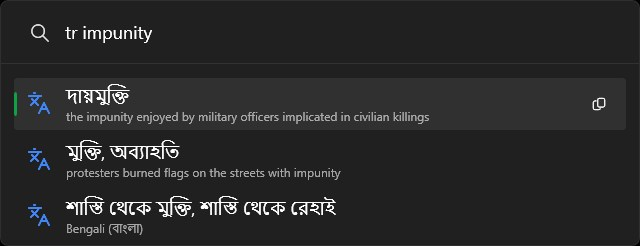
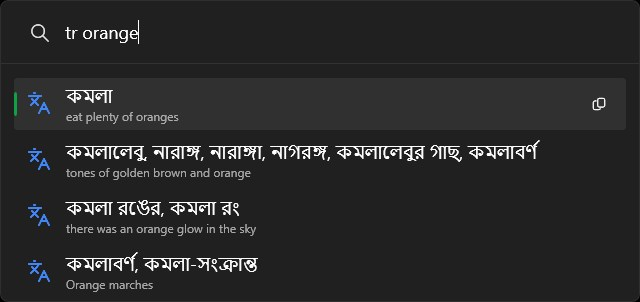
updated

diff --git a/Services/QueryParser.cs b/Services/QueryParser.cs
@@ -50,8 +50,8 @@ namespace Community.PowerToys.Run.Plugin.GoogleTranslate.Services
                 return new ParsedQuery { Text = text, TargetLang = target, SourceLang = defaultSource };
             }
 
-            // Match "... to <lang>" e.g., "hello world to spanish" or "hello to es"
-            var toMatch = Regex.Match(input, @"^(.*?)\s+to\s+([a-zA-Z\-]{2,15})$", RegexOptions.IgnoreCase);
+            // Match "... in <lang>" e.g., "hello world in spanish" or "hello in es"
+            var toMatch = Regex.Match(input, @"^(.*?)\s+in\s+([a-zA-Z\-]{2,15})$", RegexOptions.IgnoreCase);
             if (toMatch.Success && !string.IsNullOrWhiteSpace(toMatch.Groups[1].Value))
             {
                 string text = toMatch.Groups[1].Value.Trim();

diff --git a/Main.cs b/Main.cs
@@ -80,7 +80,7 @@ namespace Community.PowerToys.Run.Plugin.GoogleTranslate
                 results.Add(new Result
                 {
                     Title = "Google Translate",
-                    SubTitle = "Type 'tr <keyword>', 'tr hello', 'tr how are you'), or 'tr <text> to <lang>'",
+                    SubTitle = "Type 'tr <keyword>', 'tr hello', 'tr how are you'), or 'tr <text> in <lang>'",
                     IcoPath = _iconPath,
                     Action = _ => true,
                 });
